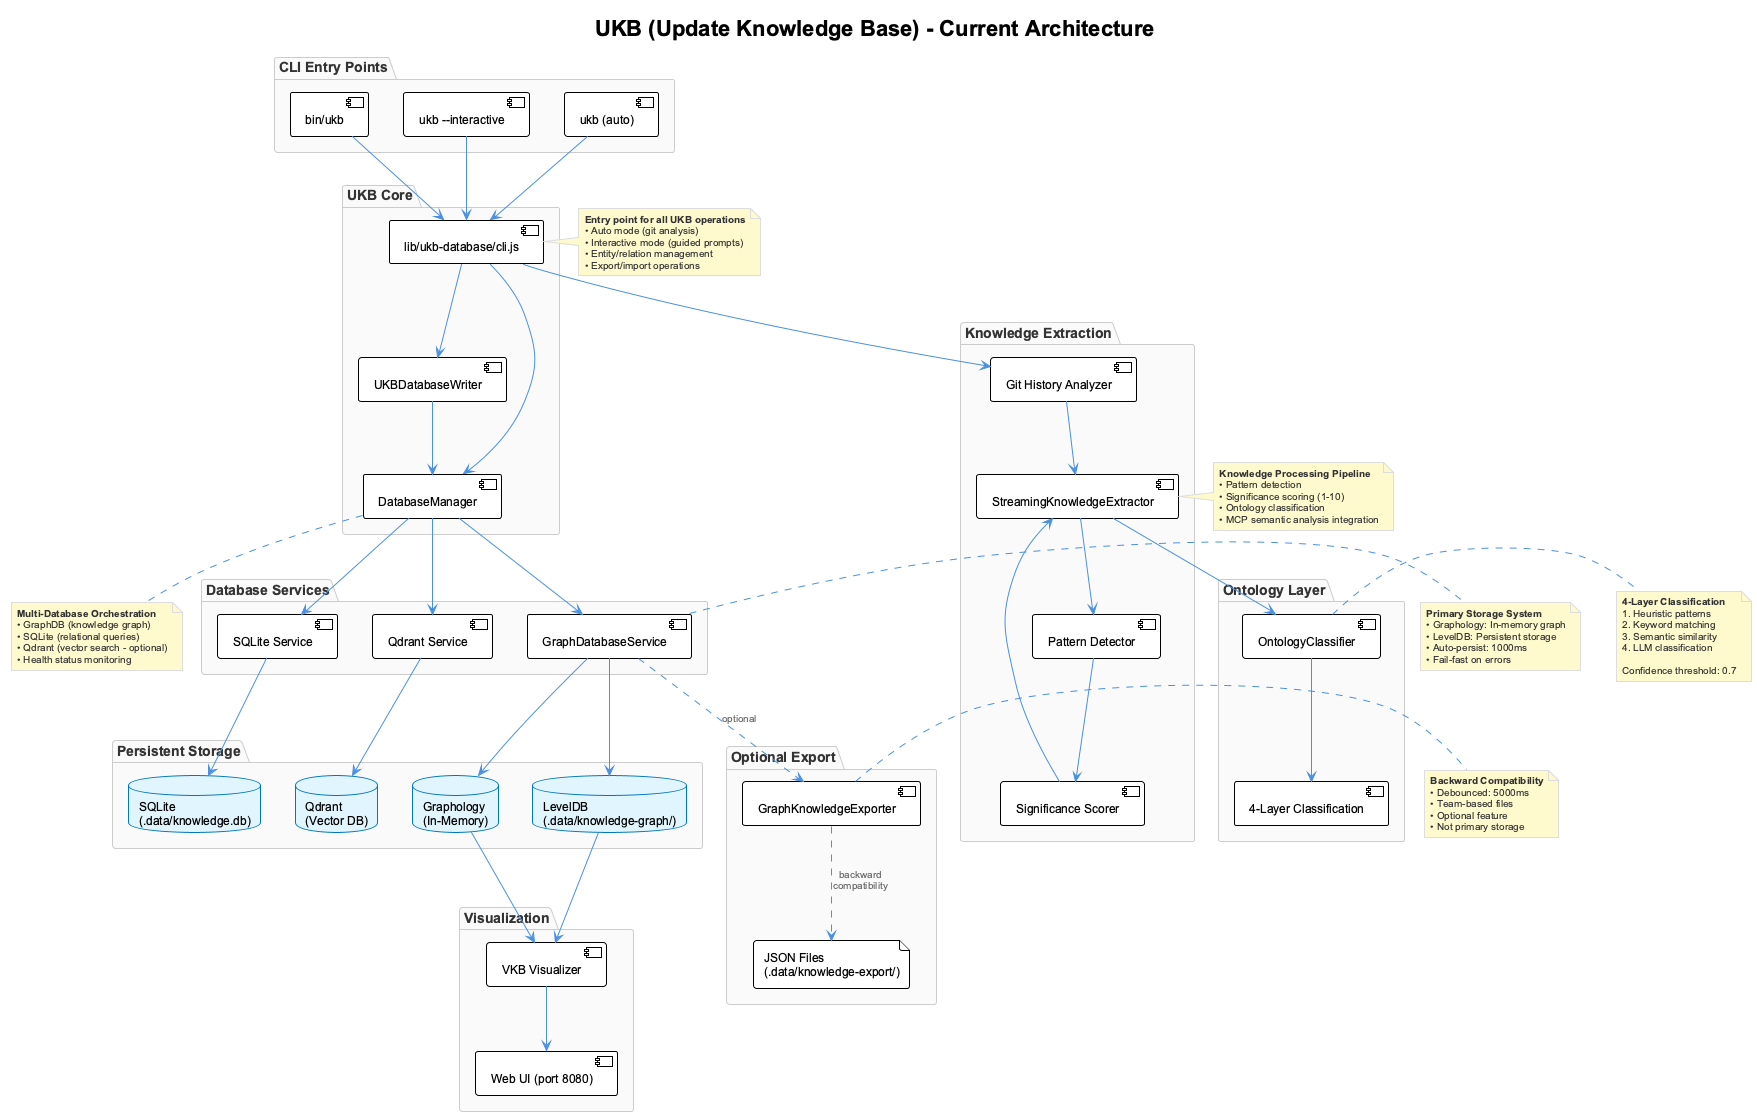
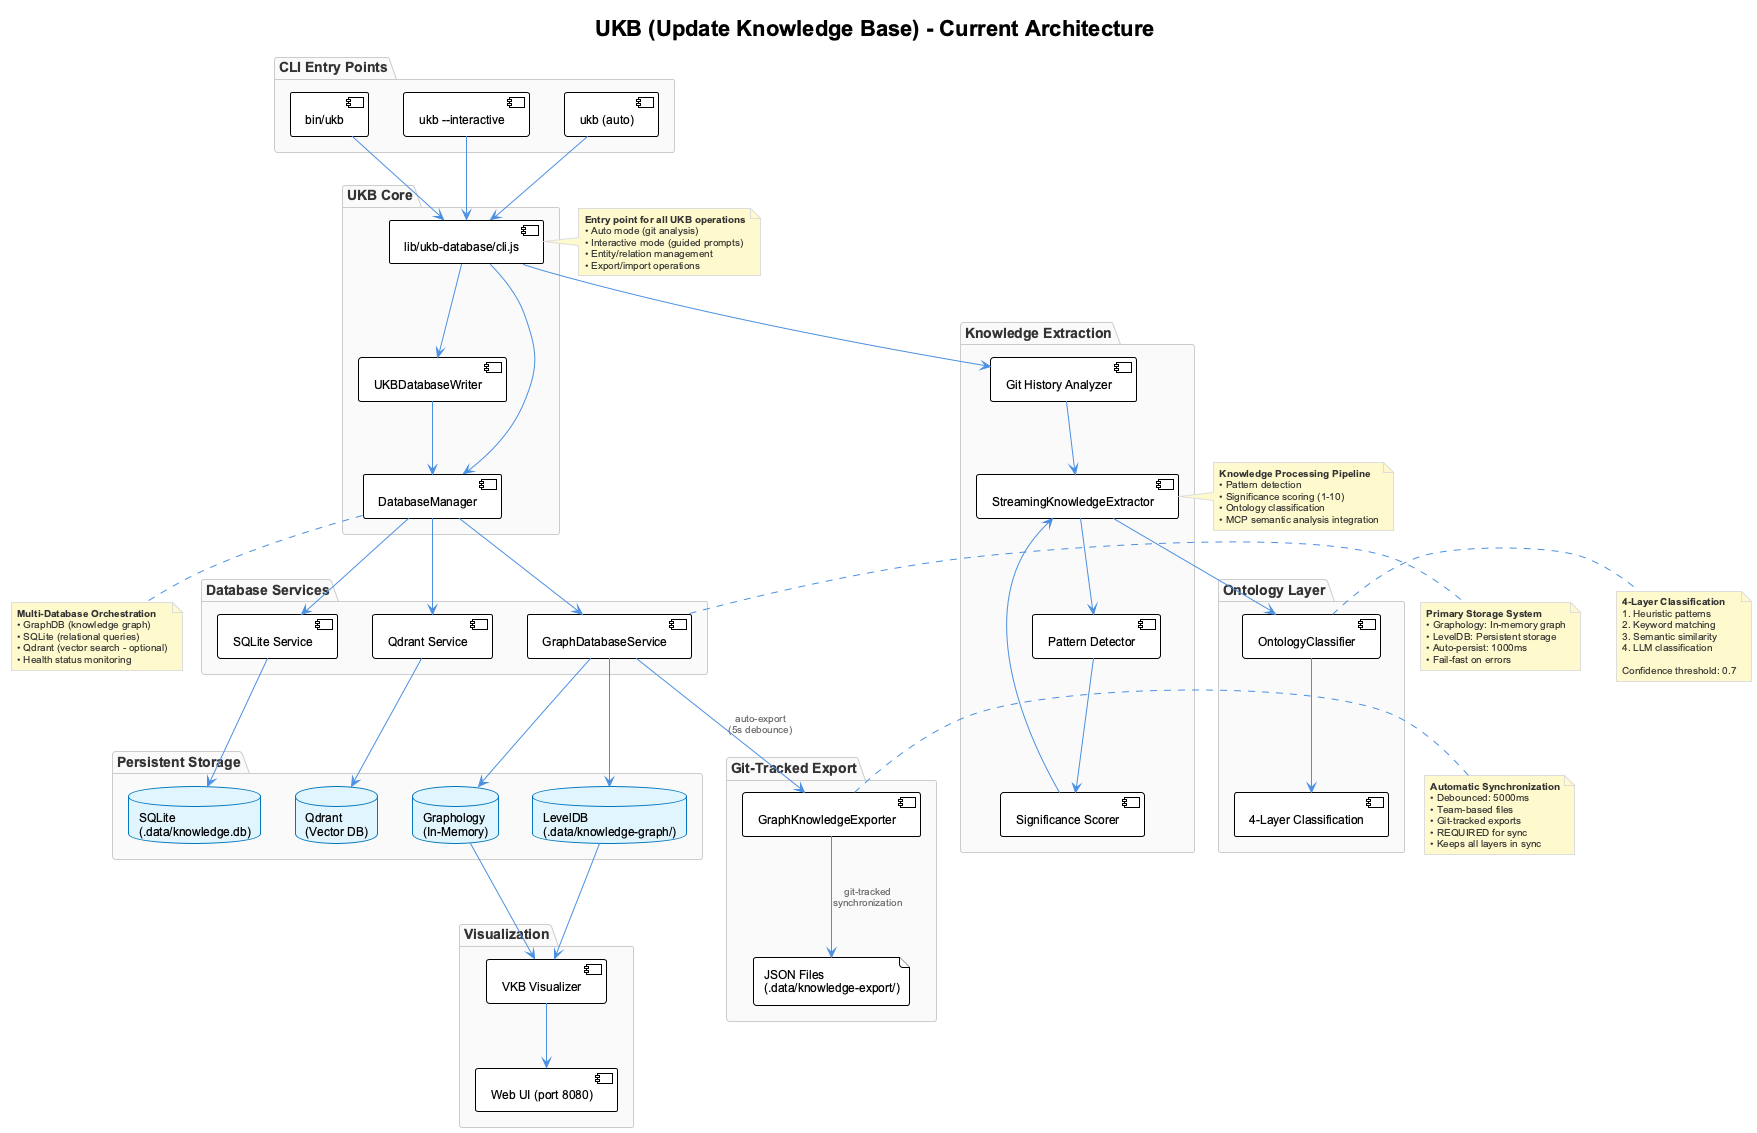
fix: JSON sync now no longer "optional"

diff --git a/src/databases/DatabaseManager.js b/src/databases/DatabaseManager.js
@@ -263,6 +263,7 @@ export class DatabaseManager extends EventEmitter {
       // Dynamic import to avoid loading if not needed
       const { GraphDatabaseService } = await import('../knowledge-management/GraphDatabaseService.js');
       const { GraphKnowledgeImporter } = await import('../knowledge-management/GraphKnowledgeImporter.js');
+      const { GraphKnowledgeExporter } = await import('../knowledge-management/GraphKnowledgeExporter.js');
 
       // Create graph database instance
       this.graphDB = new GraphDatabaseService({
@@ -282,6 +283,14 @@ export class DatabaseManager extends EventEmitter {
         conflictResolution: 'newest-wins'
       });
       await importer.initialize();
+
+      // CRITICAL: Initialize exporter to keep JSON, LevelDB, and Graphology in sync
+      // This is NOT optional - all three storage layers must remain synchronized
+      this.graphExporter = new GraphKnowledgeExporter(this.graphDB, {
+        autoExport: true,
+        debounceMs: 5000
+      });
+      await this.graphExporter.initialize();
 
       this.health.graph = {
         available: true,

diff --git a/docs/knowledge-management/ukb-update.md b/docs/knowledge-management/ukb-update.md
@@ -332,7 +332,7 @@ cd /path/to/raas-project
 # First ukb command stores knowledge in GraphDB
 ukb --list-entities
 # Stores in: .data/knowledge-graph/ (LevelDB)
-# Optional export to: .data/knowledge-export/raas.json (backward compatibility)
+# Auto-exports to: .data/knowledge-export/raas.json (git-tracked sync)
 
 # Add domain entity using piped input
 echo "StreamProcessingPipeline
@@ -370,17 +370,18 @@ UKB uses a **database-first architecture** with fail-fast semantics:
 1. **In-Memory**: Graphology graph database (nodes + edges)
 2. **Persistence**: LevelDB at `.data/knowledge-graph/`
 3. **Auto-Persist**: Changes saved every 1000ms
-4. **Optional Export**: Team-based JSON files for backward compatibility
+4. **Git-Tracked Export**: Automatic JSON export for team collaboration
 
 **Benefits**:
 - 🚀 **Fast**: In-memory graph operations
 - 💾 **Durable**: LevelDB persistence survives restarts
 - 🔒 **ACID**: Atomic operations with fail-fast on errors
-- 🔄 **Backward Compatible**: Optional JSON exports
+- 🔄 **Synchronized**: All three layers (Graphology, LevelDB, JSON) stay in sync
+- 🤝 **Team Collaboration**: Git-tracked JSON files for PR reviews
 
-### Optional JSON Export
+### Automatic JSON Export
 
-For backward compatibility, UKB can export to JSON:
+**CRITICAL**: JSON export is NOT optional - it automatically keeps all storage layers synchronized:
 
 ```bash
 # Manual export to JSON
@@ -390,12 +391,17 @@ ukb export .data/knowledge-export/coding.json --team coding
 ukb import shared-memory-old.json
 ```
 
-**Auto-Export** (optional, configured in `.data/knowledge-config.json`):
-- Debounced writes (5-second delay)
+**Auto-Export** (automatically enabled on initialization):
+- Event-driven: Triggers on entity/relationship changes
+- Debounced writes (5-second delay to minimize I/O)
 - Team-based files: `.data/knowledge-export/{team}.json`
-- Matches legacy `shared-memory-*.json` format
+- Git-tracked for team collaboration and PR reviews
 
-**Note**: JSON files are exports, NOT the primary storage. The database is the source of truth.
+**Synchronization Architecture**:
+- **Primary**: Graphology (in-memory) + LevelDB (persistent)
+- **Export**: Automatic JSON export keeps all three synchronized
+- **Guarantee**: Every entity/relationship update triggers export after debounce
+- **Purpose**: Git-based team collaboration, PR reviews, backup
 
 ## Migration from Legacy UKB
 
@@ -415,7 +421,8 @@ The system automatically imports legacy `shared-memory-*.json` files on first ru
 - **Commands**: All `ukb` commands work identically
 - **Data Format**: Entity/relation schema unchanged
 - **Workflows**: Existing team workflows unaffected
-- **Exports**: Optional JSON exports for legacy tools
+- **Git Integration**: JSON files still git-tracked for team collaboration
+- **Exports**: Automatic JSON export maintains backward compatibility
 
 #### Verification Steps
 
